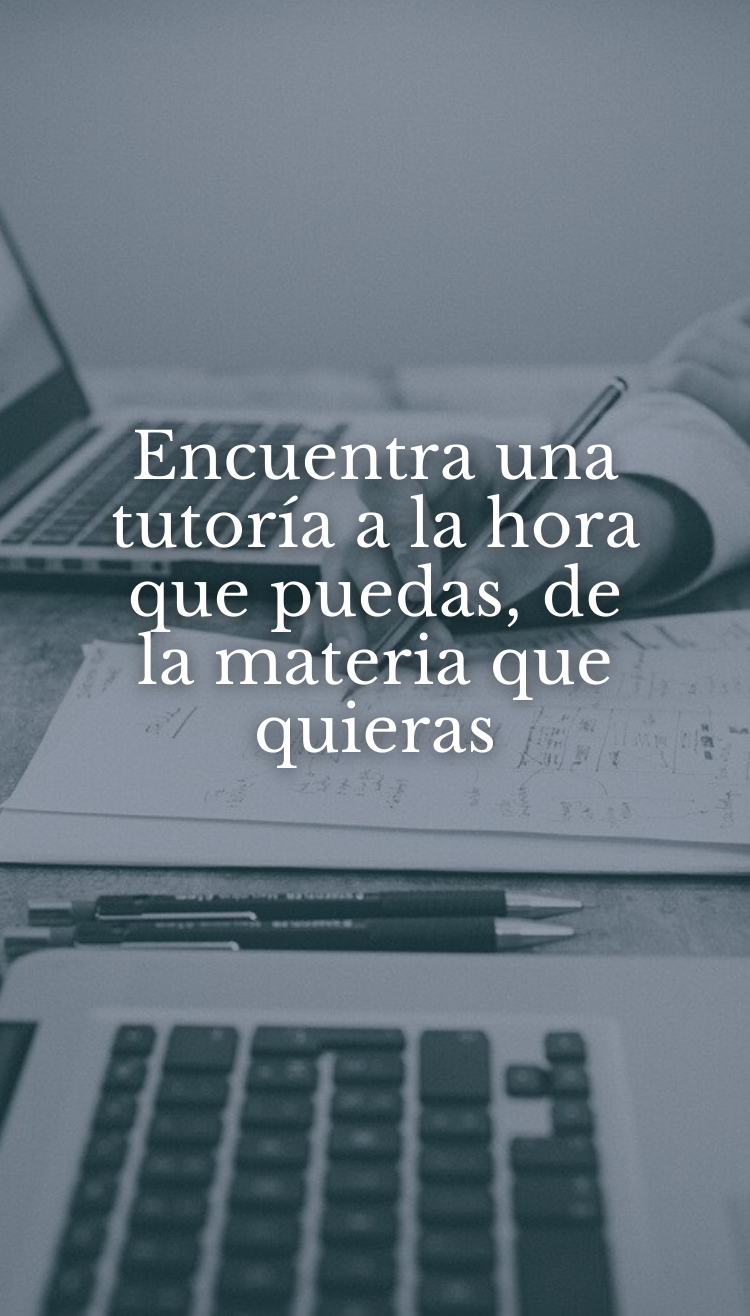
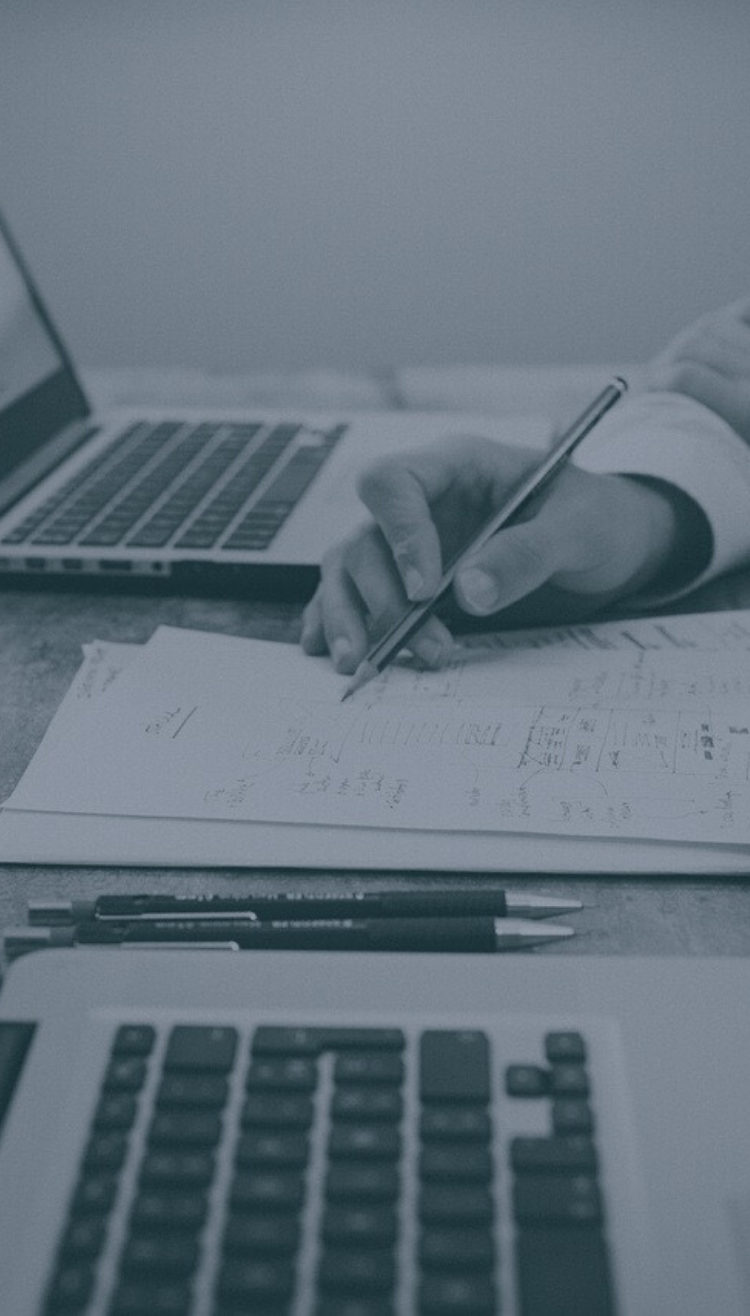
Index carousel finished

Changed region(s): [[0.1533, 0.3116, 0.8587, 0.5919]]

diff --git a/tutos/src/app/login/index.js b/tutos/src/app/login/index.js
@@ -11,6 +11,16 @@ import {
     ActivityIndicator
 } from 'react-native'
 
+import {
+    Container,
+    Header,
+    Left,
+    Body,
+    Right,
+} from 'native-base'
+
+import { FontAwesomeIcon } from '@fortawesome/react-native-fontawesome'
+
 import { theme } from '../../layout/themes'
 import { RenderInput } from '../../components/form/field'
 
@@ -30,48 +40,60 @@ const Login = ({
         navigation.navigate('Home')
     }
     return (
-        <ImageBackground style={ styles.background }>
-            <View style={ styles.content }>
-                <Text style={ styles.title }>Tuto's</Text>
-                <Field
-                    name='email'
-                    placeholder='email'
-                    component={ RenderInput }
-                />
-                <Field
-                    type={'password'}
-                    name='password'
-                    placeholder='password'
-                    component={ RenderInput }
-                />
-                {
-                    error && (
-                        <Text style={ theme.errorText }>{ error }</Text>
-                    )
-                }
-                {
-                    isLoading ? (
-                        <ActivityIndicator size="large" color="#0000ff" />
-                    ) : (
-                        <>
-                            <TouchableHighlight style={ styles.buttonLogin }>
-                                <Button
-                                    onPress={ handleSubmit }
-                                    color="black"
-                                    title="Login"
-                                />
-                            </TouchableHighlight>
-                            <TouchableHighlight style={ styles.buttonPassword }>
-                                <Button
-                                    onPress={ rememberPassword }
-                                    title="Forgot your password?"
-                                />
-                            </TouchableHighlight>
-                        </>
-                    )
-                }
-            </View>
-        </ImageBackground>
+        <Container style={ styles.background }>
+            <Header transparent>
+                <Left>
+                    <Button transparent
+                        onPress={ () => navigation.navigate('Index') }
+                        title = "< Atrás"
+                    >
+                        <FontAwesomeIcon style={ theme.headerIcon } icon='chevronLeft' size={ 25 } />
+                    </Button>
+                </Left>
+            </Header>
+            <ImageBackground style={ styles.background }>
+                <View style={ styles.content }>
+                    <Text style={ styles.title }>Tuto's</Text>
+                    <Field
+                        name='email'
+                        placeholder='email'
+                        component={ RenderInput }
+                    />
+                    <Field
+                        type={'password'}
+                        name='password'
+                        placeholder='password'
+                        component={ RenderInput }
+                    />
+                    {
+                        error && (
+                            <Text style={ theme.errorText }>{ error }</Text>
+                        )
+                    }
+                    {
+                        isLoading ? (
+                            <ActivityIndicator size="large" color="#0000ff" />
+                        ) : (
+                            <>
+                                <TouchableHighlight style={ styles.buttonLogin }>
+                                    <Button
+                                        onPress={ handleSubmit }
+                                        color="white"
+                                        title="Login"
+                                    />
+                                </TouchableHighlight>
+                                <TouchableHighlight style={ styles.buttonPassword }>
+                                    <Button
+                                        onPress={ rememberPassword }
+                                        title="Forgot your password?"
+                                    />
+                                </TouchableHighlight>
+                            </>
+                        )
+                    }
+                </View>
+            </ImageBackground>
+        </Container>
     )
 }
 
@@ -122,6 +144,7 @@ const styles = StyleSheet.create({
     buttonLogin: {
         width: '100%',
         marginTop: 15,
+        backgroundColor: 'black',
     },
     buttonPassword: {
         marginTop: 100,

diff --git a/tutos/src/app/index/index.js b/tutos/src/app/index/index.js
@@ -8,6 +8,7 @@ import {
     StyleSheet,
     Button,
 } from 'react-native';
+
 import Carousel from 'react-native-looped-carousel';
 
 import imgCarousel1 from '../../../media/1.png';
@@ -35,27 +36,33 @@ export default class Index extends Component {
         return (
             <View style={{ flex: 1 }} onLayout={this._onLayoutDidChange}>
                 <Carousel
-                    delay={2000}
+                    delay={8000}
                     style={this.state.size}
                     autoplay
                     onAnimateNextPage={(p) => console.log(p)}
                 >
                     <View style={this.state.size}>
-                        <ImageBackground source={imgCarousel1} style={styles.image}></ImageBackground>
+                        <ImageBackground source={imgCarousel1} style={styles.image}>
+                            <Text style={styles.text}>Encuentra una tutoría a la hora que puedas, de la materia que quieras</Text>
+                        </ImageBackground>
                     </View>
 
                     <View style={this.state.size}>
-                        <ImageBackground source={imgCarousel2} style={styles.image}></ImageBackground>
+                        <ImageBackground source={imgCarousel2} style={styles.image}>
+                            <Text style={styles.textUp}>Encuentra tutores cerca de ti</Text>
+                        </ImageBackground>
                     </View>
 
                     <View style={this.state.size}>
-                        <ImageBackground source={imgCarousel3} style={styles.image}></ImageBackground>
+                        <ImageBackground source={imgCarousel3} style={styles.image}>
+                            <Text style={styles.textUp}>Si eres tutor, crea tu perfil y ten ingresos económicos</Text>
+                        </ImageBackground>
                     </View>
                 </Carousel>
                 <View style={styles.options}>
                     <TouchableHighlight style={ styles.buttonLogin }>
                         <Button
-                            // onPress={ handleSubmit }
+                            onPress={ () => this.props.navigation.navigate('Login') }
                             color="black"
                             title="Login"
                         />
@@ -63,7 +70,7 @@ export default class Index extends Component {
 
                     <TouchableHighlight style={ styles.buttonSignup }>
                         <Button
-                            // onPress={ handleSubmit }
+                            onPress={ () => this.props.navigation.navigate('SignUp') }
                             color="black"
                             title="Sign Up"
                         />
@@ -78,13 +85,17 @@ const styles = StyleSheet.create({
     buttonLogin: {
         width: '40%',
         marginRight: 20,
-        backgroundColor: '#ffffff',
+        marginBottom: 70,
+        padding: 10,
+        backgroundColor: '#6BB5FF',
         borderRadius: 10,
     },
 
     buttonSignup: {
         width: '40%',
-        backgroundColor: '#ffffff',
+        marginBottom: 70,
+        padding: 10,
+        backgroundColor: '#6BB5FF',
         borderRadius: 10,
     },
 
@@ -102,6 +113,31 @@ const styles = StyleSheet.create({
     image: {
         flex: 1,
         resizeMode: "cover",
-        justifyContent: "center"
-      },
+        justifyContent: "center",
+    },
+
+    text: {
+        fontSize: 45,
+        color: '#ffffff',
+        textAlign: 'center',
+        textShadowColor: '#000000',
+        textShadowOffset: {width: 15, height: 10},
+        textShadowRadius: 15,
+        paddingLeft: 20,
+        paddingRight: 20,
+    },
+
+    textUp: {
+        fontSize: 45,
+        color: '#ffffff',
+        textAlign: 'center',
+        textShadowColor: '#000000',
+        textShadowOffset: {width: 15, height: 10},
+        textShadowRadius: 15,
+        paddingLeft: 20,
+        paddingRight: 20,
+        marginBottom: '120%',
+    },
+
+    
 })

diff --git a/tutos/src/App.js b/tutos/src/App.js
@@ -22,7 +22,8 @@ import {
     faAt,
     faEnvelope,
     faLocationArrow,
-    faGraduationCap
+    faGraduationCap,
+    faChevronLeft
 } from '@fortawesome/free-solid-svg-icons'
 
 import { routes } from './routes'
@@ -47,7 +48,8 @@ library.add(
     faAt,
     faEnvelope,
     faLocationArrow,
-    faGraduationCap
+    faGraduationCap,
+    faChevronLeft
 )
 
 const Drawer = createDrawerNavigator()
@@ -55,7 +57,7 @@ const Drawer = createDrawerNavigator()
 const App = ({ isAuthenticated }) => (
     <NavigationContainer>
         <Drawer.Navigator 
-            initialRouteName="Login"
+            initialRouteName="Index"
             drawerContent={ props => <SideBar { ...props } /> }
         >
             {
